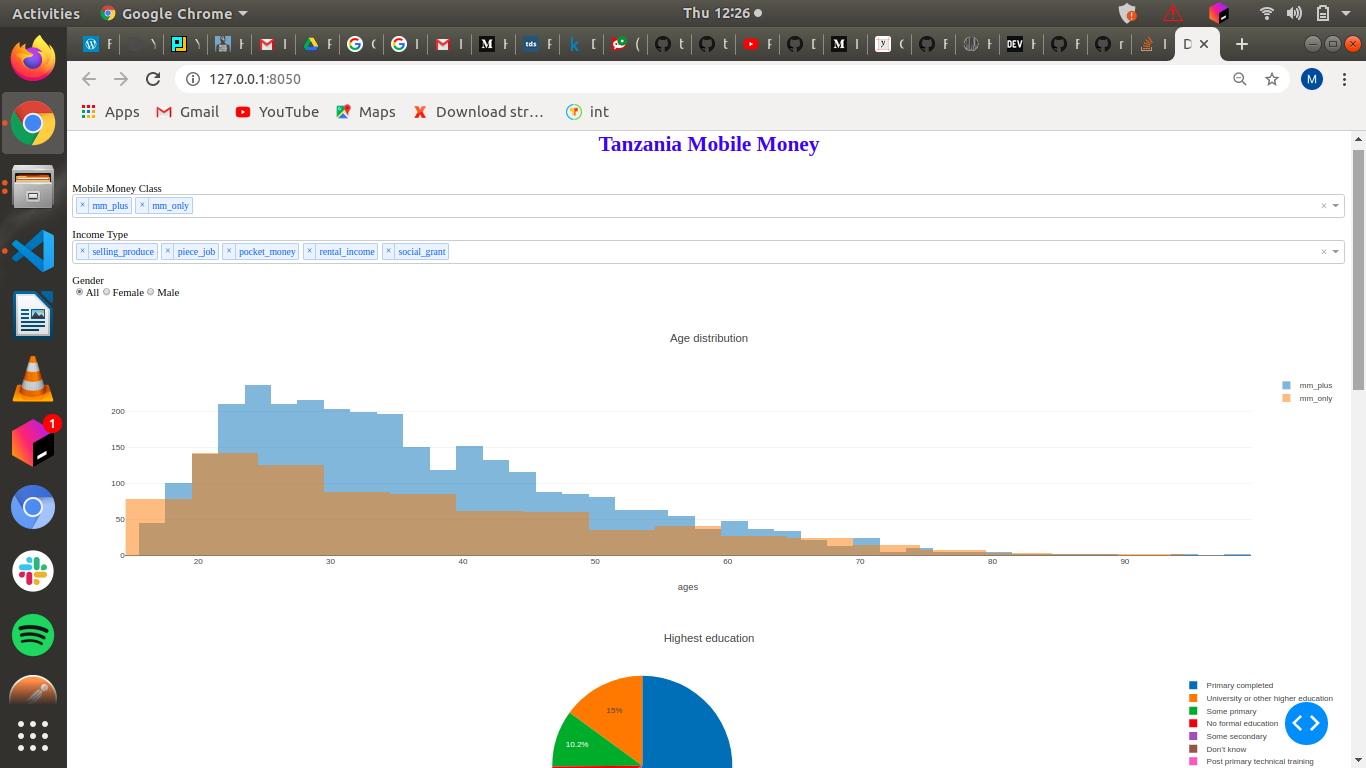
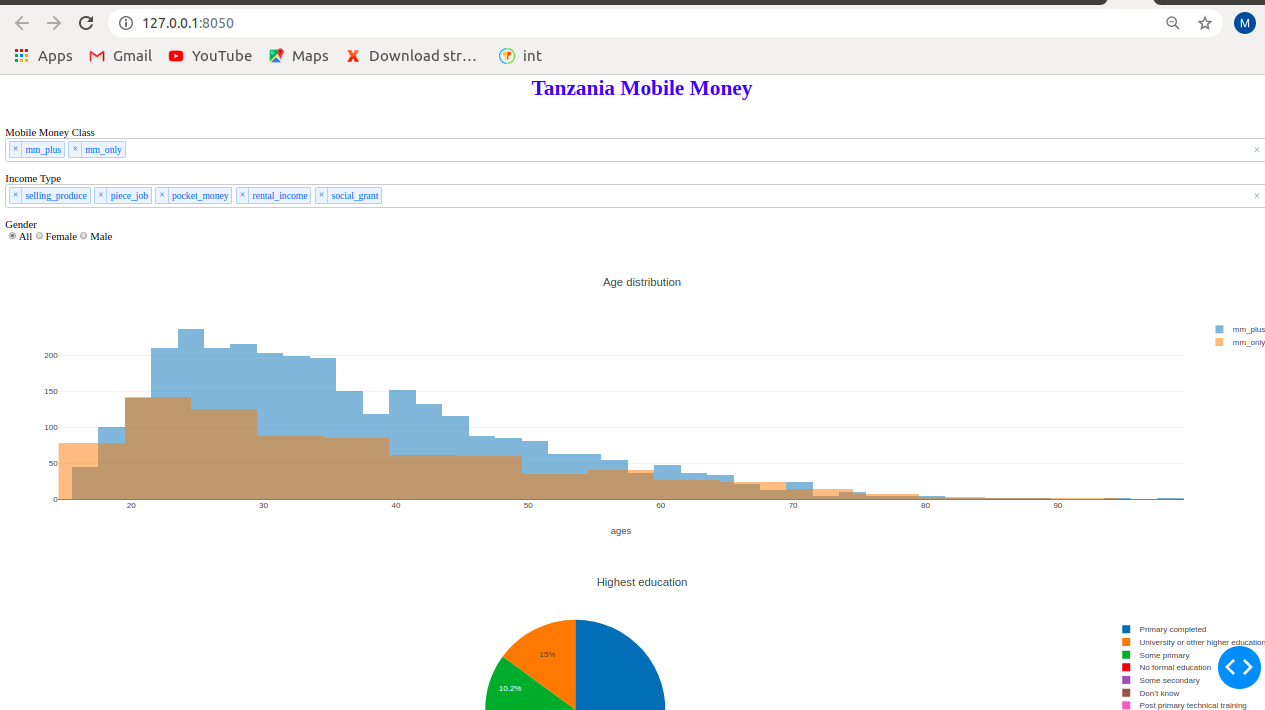
screenshots in README file

diff --git a/README.md b/README.md
@@ -7,3 +7,5 @@ In the terminal, type:
 1. pip install -r requirements.txt
 2. python app.py
 3. click on the link  ( http://127.0.0.1:8050/ ) to access it on the browser.
+
+![ScreenShot](https://raw.github.com/masaimahapa/tanzania-dashboard/master/screenshots/dashboard2.png)
